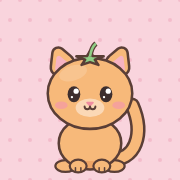
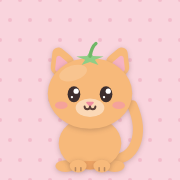
Study Cat 0.3.1: gatinho sem contorno
Pedido da Bianca. Sem a linha marrom, cabeca, corpo e patas da mesma cor virariam
uma massa so e o gato branco sumiria na parede creme: cada parte do corpo faz uma
sombrinha macia (a cabeca no corpo, a pata no peito, o gato na parede). Rosto,
roupinhas, livro e moveis continuam com traco. CONTORNO = true volta ao antigo.
Icones regenerados, folhinha de tomate tambem sem contorno.

Changed region(s): [[0.25, 0.2222, 0.8333, 0.9722]]

diff --git a/gato.js b/gato.js
@@ -1,6 +1,6 @@
 // O gatinho, desenhado em Canvas 2D. Não usa imagem nenhuma: cor, pelagem, tamanho do pelo
 // e roupinha mudam trocando um parâmetro, sem precisar de um desenho para cada combinação.
-// Estilo Usagi Shima: contorno marrom grosso, cor chapada, formas redondas, cabeção de chibi.
+// Estilo: cor chapada, formas redondas, cabeção de chibi, SEM contorno no gato (sombrinha macia no lugar).
 //
 // Coordenadas locais: origem no chão entre as patas, para cima é y negativo.
 // Cabeça com ~100 de largura; gato inteiro com ~150 de altura (sem chapéu).
@@ -26,6 +26,25 @@ export const PELOS = { curto: 'Curto', medio: 'Médio', longo: 'Longo' };
 const CAB = { y: -90, rx: 50, ry: 42 };
 const CORPO = { y: -31, rx: 37, ry: 31 };
 const PESCOCO_Y = -50;
+
+// (Bianca, 2026-10-27) O gatinho NÃO tem contorno marrom. Sem a linha, cabeça, corpo e patas da mesma
+// cor virariam uma massa só e o gato branco sumiria na parede creme; por isso cada parte do corpo
+// faz uma sombrinha macia (a cabeça no corpo, a pata no peito, o gato todo na parede).
+// Rosto, roupinhas, livro e objetos continuam com traço. CONTORNO = true volta ao desenho antigo.
+const CONTORNO = false;
+function silhueta(ctx, desenhar) {
+  ctx.save();
+  const m = ctx.getTransform(), k = Math.hypot(m.a, m.b);   // a sombra é em pixel de tela: acompanha a escala
+  ctx.shadowColor = 'rgba(90,62,54,.28)'; ctx.shadowBlur = 6 * k; ctx.shadowOffsetY = 1.5 * k;
+  desenhar();
+  ctx.restore();
+}
+// Parte do corpo: preenche e, só no modo antigo, contorna.
+function parte(ctx, cor, path, lw = 3) {
+  if (!CONTORNO) { silhueta(ctx, () => { ctx.fillStyle = cor; path ? ctx.fill(path) : ctx.fill(); }); return; }
+  ctx.fillStyle = cor; path ? ctx.fill(path) : ctx.fill();
+  ctx.lineWidth = lw; ctx.strokeStyle = LINHA; path ? ctx.stroke(path) : ctx.stroke();
+}
 
 const rgba = (hex, a) => { const n = parseInt(hex.slice(1), 16); return `rgba(${n >> 16},${(n >> 8) & 255},${n & 255},${a})`; };
 function elipse(ctx, x, y, rx, ry, rot = 0) { ctx.beginPath(); ctx.ellipse(x, y, rx, ry, rot, 0, TAU); }
@@ -94,8 +113,7 @@ function orelha(ctx, lado, pal, cor, caida, twitch, pelo) {
   const [A, T, B] = [A0, T0, B0].map(q => girar(q, piv, ang));
   const p = new Path2D();
   trianguloRedondo(p, A, T, B, 10, 7);
-  ctx.fillStyle = cor; ctx.fill(p);
-  ctx.lineWidth = 3; ctx.strokeStyle = LINHA; ctx.stroke(p);
+  parte(ctx, cor, p);
   const c = [(A[0] + T[0] + B[0]) / 3, (A[1] + T[1] + B[1]) / 3 + 3];
   const enc = q => [c[0] + (q[0] - c[0]) * 0.52, c[1] + (q[1] - c[1]) * 0.52];
   const pi = new Path2D();
@@ -123,9 +141,10 @@ function cauda(ctx, pal, pelo, fase) {
   p.bezierCurveTo(56, -8, 64 + fase * 5, -44, 50 + fase * 16, -76 + Math.abs(fase) * 5);
   ctx.save();
   ctx.lineCap = 'round';
-  ctx.lineWidth = w + 6; ctx.strokeStyle = LINHA; ctx.stroke(p);
+  if (CONTORNO) { ctx.lineWidth = w + 6; ctx.strokeStyle = LINHA; ctx.stroke(p); }
   const cor = pal.padrao === 'frajola' || pal.padrao === 'siames' || pal.padrao === 'tricolor' ? pal.mancha : pal.base;
-  ctx.lineWidth = w; ctx.strokeStyle = cor; ctx.stroke(p);
+  const fio = () => { ctx.lineWidth = w; ctx.strokeStyle = cor; ctx.stroke(p); };
+  if (CONTORNO) fio(); else silhueta(ctx, fio);
   if (pal.padrao === 'rajado' || pal.padrao === 'tricolor') {
     ctx.setLineDash([5, 9]); ctx.lineCap = 'butt';
     ctx.strokeStyle = pal.padrao === 'rajado' ? pal.listra : pal.mancha2;
@@ -147,7 +166,7 @@ function tufoPeito(ctx, pelo) {
     ctx.quadraticCurveTo(31, -43, 29, -66);
     ctx.closePath();
     ctx.fillStyle = 'rgba(255,255,255,.55)'; ctx.fill();
-    ctx.lineWidth = 2; ctx.strokeStyle = 'rgba(90,62,54,.28)'; ctx.stroke();
+    if (CONTORNO) { ctx.lineWidth = 2; ctx.strokeStyle = 'rgba(90,62,54,.28)'; ctx.stroke(); }
     ctx.lineWidth = 1.6; ctx.strokeStyle = 'rgba(90,62,54,.18)'; ctx.lineCap = 'round';
     for (const l of [-1, 1]) { ctx.beginPath(); ctx.moveTo(l * 9, -50); ctx.quadraticCurveTo(l * 11, -42, l * 8, -36); ctx.stroke(); }
     return;
@@ -167,7 +186,7 @@ function sueter(ctx) {
 }
 
 function corpo(ctx, pal, F, pelo, roupaCorpo) {
-  ctx.fillStyle = pal.base; ctx.fill(F.corpo);
+  parte(ctx, pal.base, F.corpo);
   ctx.save();
   ctx.clip(F.corpo);
   mancha(ctx, pal.sombra, 0, 6, 46, 16, 0);              // barriguinha mais escura embaixo: dá volume
@@ -190,19 +209,18 @@ function corpo(ctx, pal, F, pelo, roupaCorpo) {
   if (roupaCorpo === 'sueter') sueter(ctx);
   else if (pelo !== 'curto') tufoPeito(ctx, pelo);
   ctx.restore();
-  ctx.lineWidth = 3; ctx.strokeStyle = LINHA; ctx.stroke(F.corpo);
 }
 
 function pata(ctx, x, y, cor) {
   elipse(ctx, x, y, 10, 7.5);
-  contornar(ctx, cor, 2.6);
-  ctx.lineWidth = 1.8;
+  parte(ctx, cor, null, 2.6);
+  ctx.lineWidth = 1.8; ctx.strokeStyle = CONTORNO ? LINHA : 'rgba(90,62,54,.4)';
   linha(ctx, x - 3.2, y + 2, x - 3.2, y + 5.5);
   linha(ctx, x + 3.2, y + 2, x + 3.2, y + 5.5);
 }
 const corPata = pal => pal.padrao === 'siames' ? pal.mancha : pal.base;
 function patasTraseiras(ctx, pal) {
-  for (const l of [-1, 1]) { elipse(ctx, l * 29, -4, 12, 7); contornar(ctx, corPata(pal), 2.6); }
+  for (const l of [-1, 1]) { elipse(ctx, l * 29, -4, 12, 7); parte(ctx, corPata(pal), null, 2.6); }
 }
 function patas(ctx, pal, modo) {
   const c = corPata(pal);
@@ -215,7 +233,7 @@ function patas(ctx, pal, modo) {
 }
 
 function cabeca(ctx, pal, F) {
-  ctx.fillStyle = pal.base; ctx.fill(F.cab);
+  parte(ctx, pal.base, F.cab);
   ctx.save();
   ctx.clip(F.cab);
   switch (pal.padrao) {
@@ -244,7 +262,6 @@ function cabeca(ctx, pal, F) {
   if (pal.focinho) mancha(ctx, 'rgba(255,255,255,.45)', 0, -73, 17, 11, 0);
   mancha(ctx, 'rgba(255,255,255,.16)', -20, -114, 17, 9, -0.3);   // brilho no alto da cabeça
   ctx.restore();
-  ctx.lineWidth = 3; ctx.strokeStyle = LINHA; ctx.stroke(F.cab);
 }
 
 // ---------- rosto ----------
@@ -493,7 +510,7 @@ function asas(ctx, t) {
     const p = new Path2D();
     p.moveTo(0, 0); p.bezierCurveTo(l * 30, -26, l * 48, -8, l * 40, 8);
     p.bezierCurveTo(l * 30, 4, l * 28, 14, l * 18, 10); p.bezierCurveTo(l * 14, 16, l * 4, 12, 0, 0);
-    ctx.fillStyle = '#fff'; ctx.fill(p); ctx.lineWidth = 2.6; ctx.strokeStyle = LINHA; ctx.stroke(p);
+    parte(ctx, '#fff', p, 2.6);
     ctx.restore();
   }
 }

diff --git a/icone.html b/icone.html
@@ -21,8 +21,8 @@
     const a = -Math.PI / 2 + k * Math.PI * 2 / 5, b = a + Math.PI / 5;
     x.lineTo(Math.cos(a) * 17, Math.sin(a) * 9); x.lineTo(Math.cos(b) * 6, Math.sin(b) * 4);
   }
-  x.closePath(); x.fill(); x.stroke();
-  x.beginPath(); x.moveTo(0, -3); x.quadraticCurveTo(2, -14, 7, -18); x.lineWidth = 6; x.stroke(); x.lineWidth = 3; x.strokeStyle = '#8fce86'; x.stroke();
+  x.closePath(); x.fill();                          // sem contorno, como o gato (Bianca, 2026-10-27)
+  x.beginPath(); x.moveTo(0, -3); x.quadraticCurveTo(2, -14, 7, -18); x.lineCap = 'round'; x.lineWidth = 4; x.strokeStyle = '#6fb766'; x.stroke();
   x.restore();
   document.title = 'pronto';
 </script></body></html>

diff --git a/sw.js b/sw.js
@@ -1,6 +1,6 @@
 // Service worker: o app funciona offline. Rede primeiro (pega atualização), cache se estiver sem internet.
 // MEXEU EM QUALQUER ARQUIVO DA LISTA? Suba o CACHE, senão o app instalado continua servindo a versão velha.
-const CACHE = 'pomodorocat-v0.3';
+const CACHE = 'pomodorocat-v0.3.1';
 const APP = ['./', './index.html', './app.js', './estado.js', './regras.js', './catalogo.js', './gato.js', './quarto.js', './cena.js', './som.js', './i18n.js', './nuvem.js',
   './manifest.json', './icon-180.png', './icon-192.png', './icon-512.png'];
 

diff --git a/app.js b/app.js
@@ -9,7 +9,7 @@ import { miniatura } from './quarto.js';
 import * as Som from './som.js';
 import { t, IDIOMAS, definirIdioma, detectarIdioma, nomeItem, nomePelagem, traduzirPagina } from './i18n.js';
 
-const VERSAO = '0.3';
+const VERSAO = '0.3.1';
 const $ = sel => document.querySelector(sel);
 const esc = x => String(x).replace(/[&<>"']/g, c => ({ '&': '&amp;', '<': '&lt;', '>': '&gt;', '"': '&quot;', "'": '&#39;' }[c]));
 const moeda = n => `<span class="m"><svg class="ic"><use href="#i-moeda"/></svg>${n}</span>`;

diff --git a/CLAUDE.md b/CLAUDE.md
@@ -19,6 +19,9 @@ Publicado em https://kevindustries-tech.github.io/pomodorocat/ — a Bianca usa 
 O nome que aparece é **Study Cat** (desde 2026-10-27). Repositório, endereço e chaves do
 `localStorage` continuam `pomodorocat`: trocar o endereço quebraria o app instalado no celular dela.
 
+O gato **não tem contorno** (pedido da Bianca, 2026-10-27): cada parte faz uma sombrinha macia
+(`CONTORNO` e `silhueta()` em `gato.js`). O quarto, os objetos e as roupinhas continuam com traço.
+
 **Sem build e sem bundler**: HTML + ES modules + Canvas 2D. Nenhuma imagem: o gato, o quarto e
 os móveis são desenhados em código, então cor, pelagem, pelo e roupinha são só parâmetros.
 
